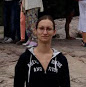
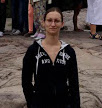
disign changes

diff --git a/css/my.css b/css/my.css
@@ -12,10 +12,10 @@ ul {
 div {
   margin-bottom: 5%;
 }
-img {
+/*img {
   width: 13em;
   height: 13em;
-}
+}*/
 h2 {
   font-size: 275%;
 }
